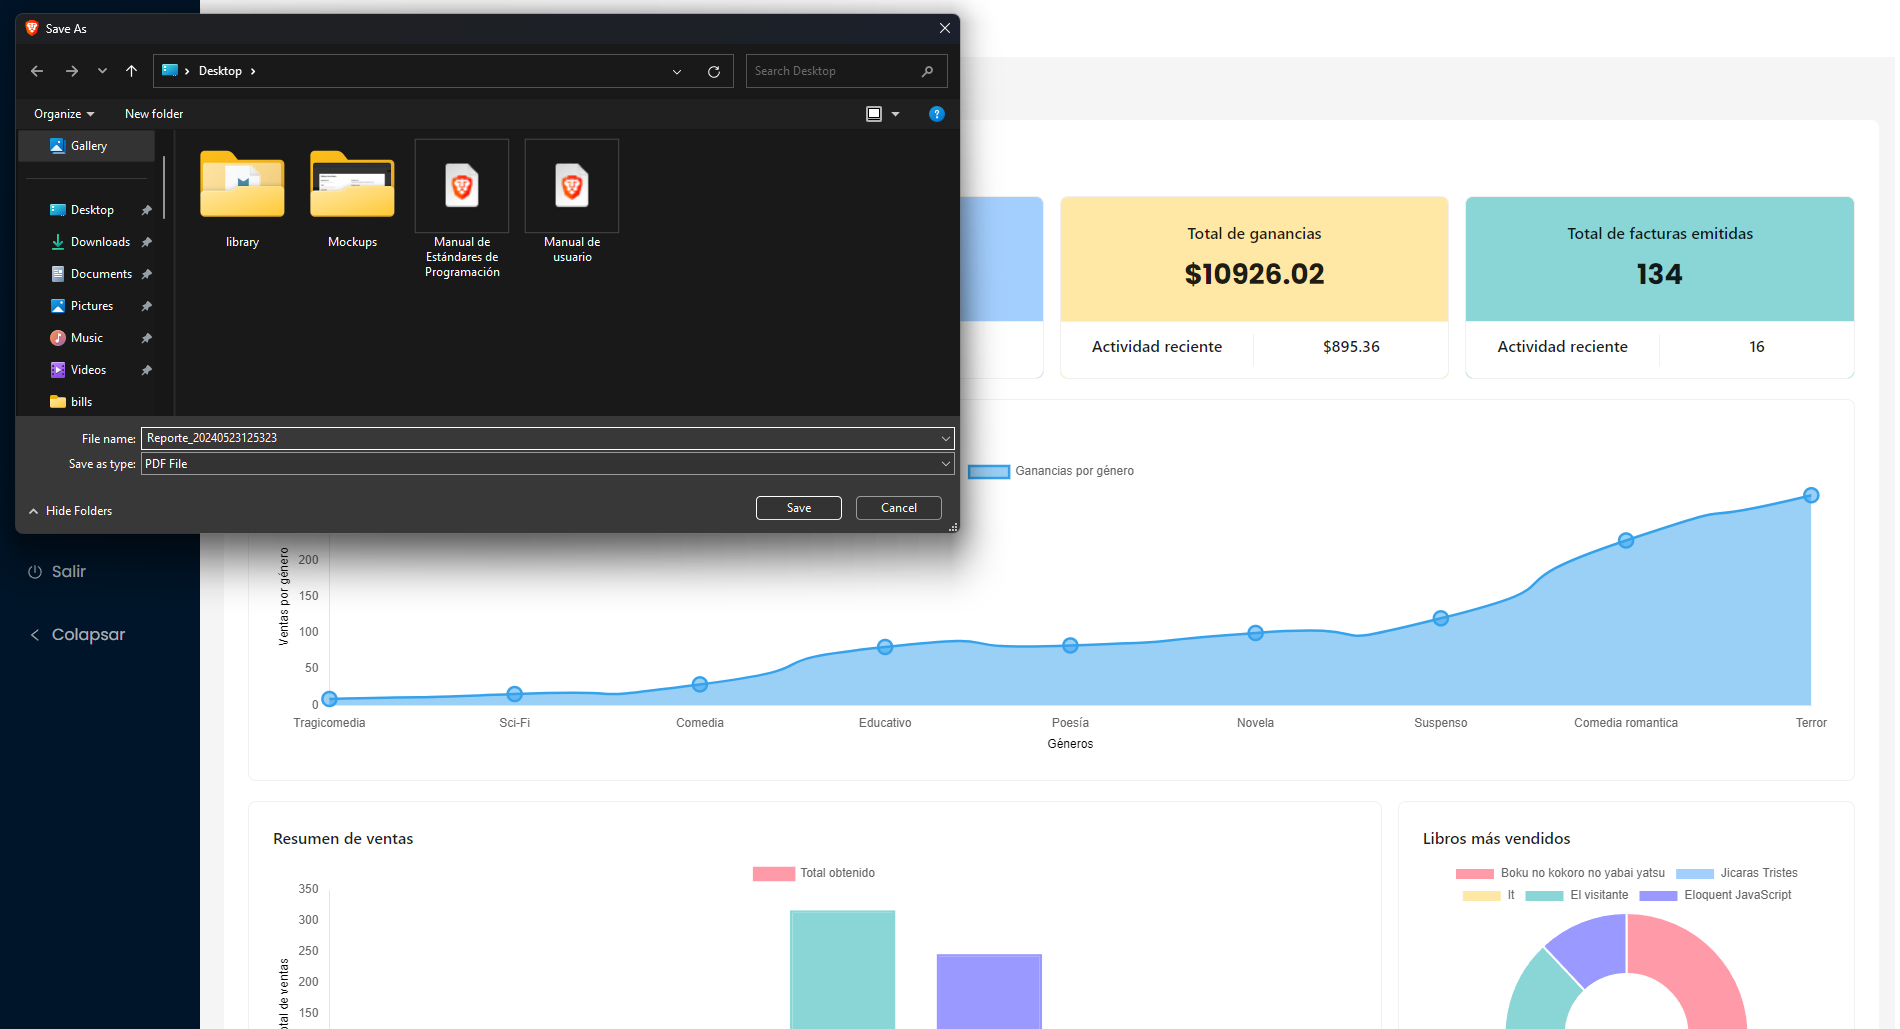
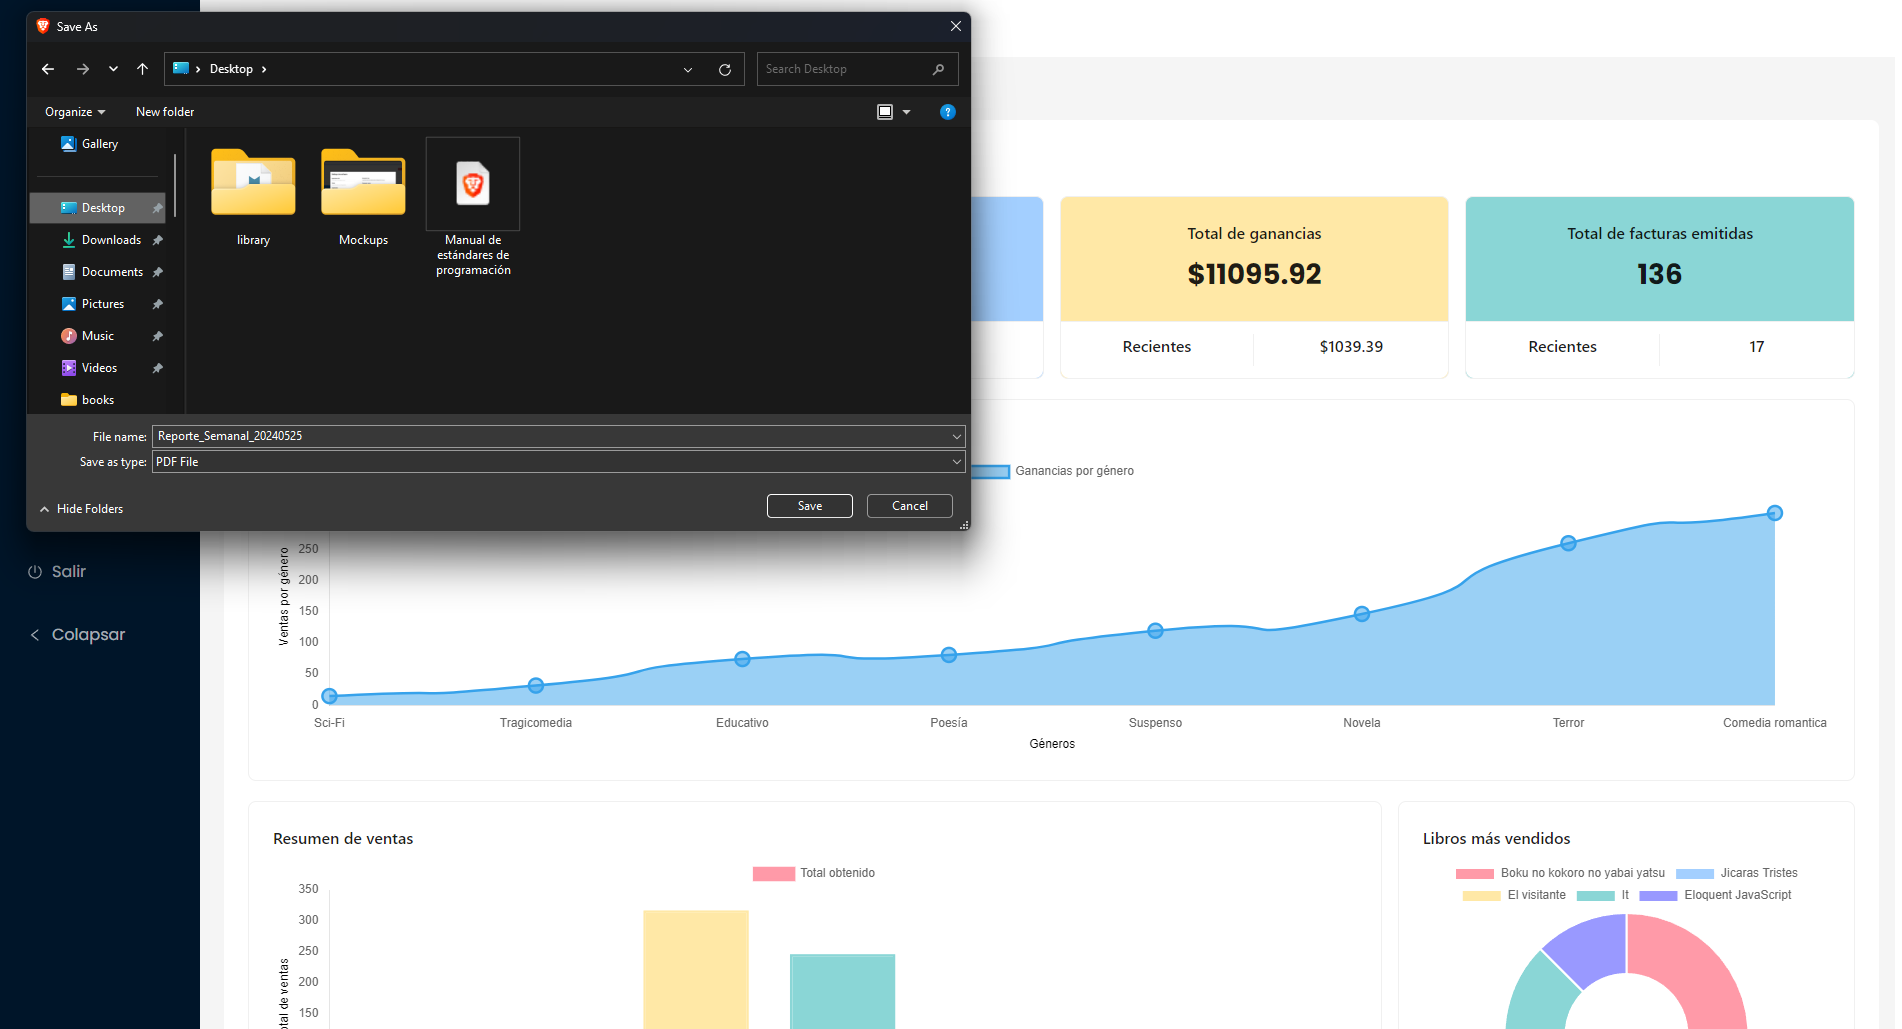
Frontend has been finished! All UI has been finished

diff --git a/frontend/src/components/dashboardGraphs/DashboardGraphs.jsx b/frontend/src/components/dashboardGraphs/DashboardGraphs.jsx
@@ -466,7 +466,7 @@ const DashboardGraphs = ({ period }) => {
               }}
               actions={[
                 <Title level={5} style={{ marginTop: "0" }}>
-                  Actividad reciente
+                  Recientes
                 </Title>,
                 <Title level={5} style={{ marginTop: "0" }}>
                   {recentBooks}
@@ -476,7 +476,7 @@ const DashboardGraphs = ({ period }) => {
               <Spin spinning={loading} size="large" tip="Cargando...">
                 <div style={{ fontSize: "28px" }}>
                   <Title level={5} style={{ marginTop: "0" }}>
-                    Total de libros
+                    Total de unidades
                   </Title>
 
                   {loading ? (
@@ -497,7 +497,7 @@ const DashboardGraphs = ({ period }) => {
               }}
               actions={[
                 <Title level={5} style={{ marginTop: "0" }}>
-                  Actividad reciente
+                  Recientes
                 </Title>,
                 <Title level={5} style={{ marginTop: "0" }}>
                   {recentSales}
@@ -506,7 +506,7 @@ const DashboardGraphs = ({ period }) => {
             >
               <Spin spinning={loading} size="large" tip="Cargando...">
                 <Title level={5} style={{ marginTop: "0" }}>
-                  Unidades vendidas
+                  Total de unidades vendidas
                 </Title>
                 <div style={{ fontSize: "28px" }}>
                   {loading ? (
@@ -527,7 +527,7 @@ const DashboardGraphs = ({ period }) => {
               }}
               actions={[
                 <Title level={5} style={{ marginTop: "0" }}>
-                  Actividad reciente
+                  Recientes
                 </Title>,
                 <Title level={5} style={{ marginTop: "0" }}>
                   ${recentRevenue}
@@ -557,7 +557,7 @@ const DashboardGraphs = ({ period }) => {
               }}
               actions={[
                 <Title level={5} style={{ marginTop: "0" }}>
-                  Actividad reciente
+                  Recientes
                 </Title>,
                 <Title level={5} style={{ marginTop: "0" }}>
                   {recentInvoices}

diff --git a/frontend/src/views/help/Help.jsx b/frontend/src/views/help/Help.jsx
@@ -102,7 +102,7 @@ const Help = () => {
         }}
       >
         <Title level={3} style={{ marginTop: "-3px" }}>
-          <QuestionCircleOutlined /> Ayuda
+          <QuestionCircleOutlined style={{ color: "#1890ff" }} /> Ayuda
         </Title>
         <>
           {/* Dashboard card */}
